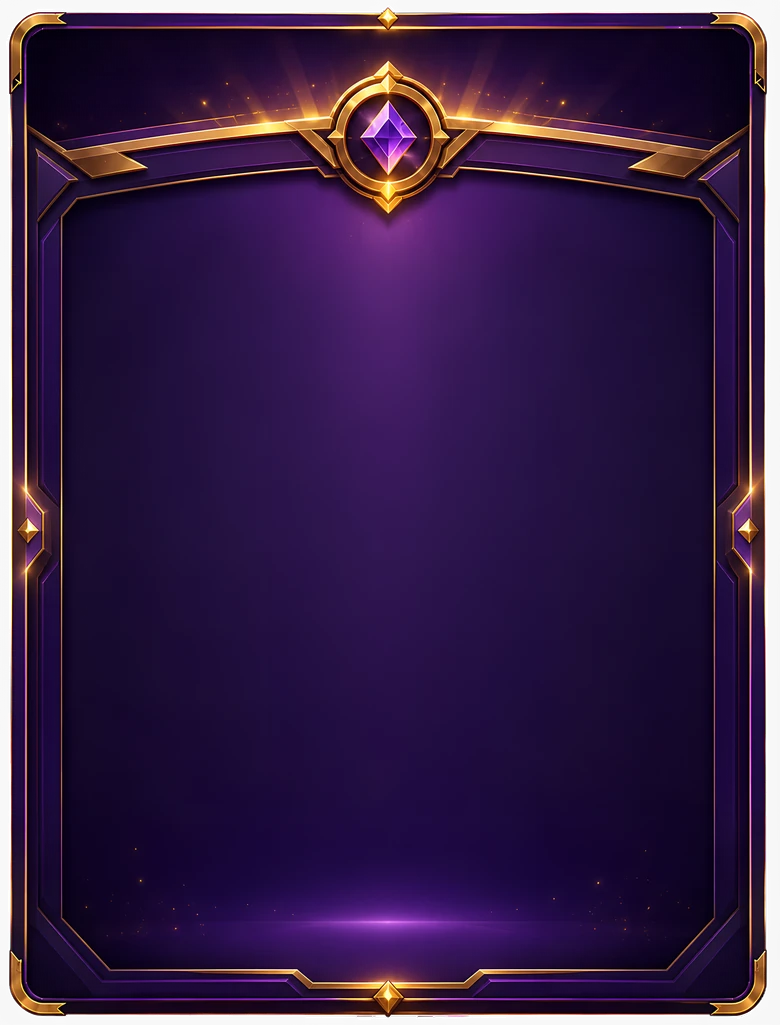
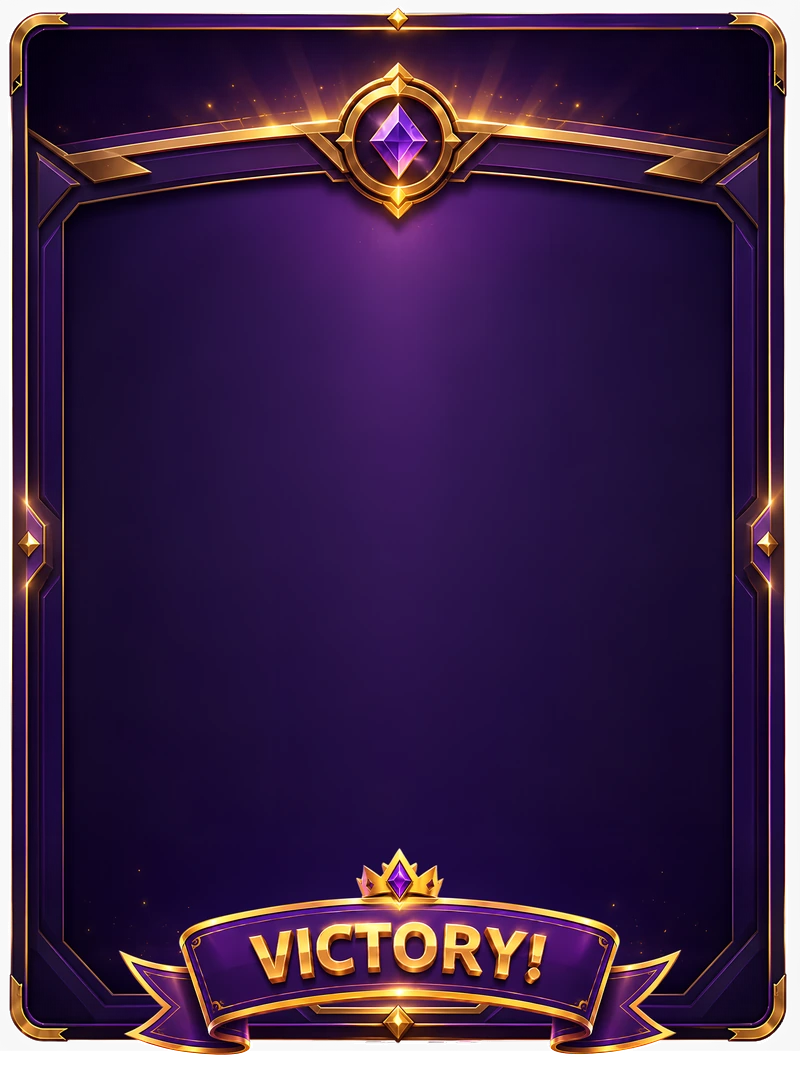
v2.50.0: laadtijd omlaag, nieuwe victory-plaat, tips voorgoed weg
LAADTIJD. Vier echte oorzaken, geen gokwerk:

1. De service worker gooide bij ELKE activatie zijn hele cache weg. We
   deployden vandaag negen keer, dus elke update was een koude her-download van
   alle art (knoppen, emotes, 197 vlaggen, achtergronden, muziek). Art heeft nu
   een eigen cache die releases overleeft; de schil blijft network-first, dus
   het zwarte-scherm-scenario waar die regel voor bestond blijft afgedekt. Art
   die op dezelfde URL wordt overschreven draagt al ?v=, en een andere query is
   een andere cache-regel, dus verse art komt gewoon binnen.

2. Het logo was een PNG van 1024x1024 en 2,1 MB, getoond op 128px. Nu een webp
   van 384px: 28 KB. Dat was in zijn eentje de zwaarste download van de eerste
   laadbeurt. De share cards houden de bron-PNG, die laadt alleen bij delen.

3. De muziek stond op preload=auto: 5 MB die de browser meteen binnentrok
   terwijl de pagina nog bezig was. Nu none, hij streamt als hij speelt. De
   sfx (2,5 MB) decoderen 2,5 s later; tot dan vangt de synth-terugval het op.

4. Alles zat in EEN bundel van 727 KB. React staat nu in een eigen brok en elk
   scherm laadt pas als je er heen gaat. Eerste weergave: 203 KB gzip -> 140,
   en Hub (28 KB gzip) komt pas bij het openen van je profiel.

Verder: de nieuwe victory-plaat met de wimpel INGEBAKKEN onderaan; de losse
band-overlay is weg en de inhoud stopt op 83,5% (gemeten aan de warme pixels),
net boven VICTORY!. De oude wimpelloze plaat blijft als frame-plain.webp voor
[…]

diff --git a/frontend/src/App.tsx b/frontend/src/App.tsx
@@ -1,6 +1,6 @@
 // Pen Neer — top-level flow. Pre-room: intro -> language -> landing/rules.
 // In a room: render the screen for the authoritative phase.
-import { useEffect, useRef, useState } from "react";
+import { useEffect, useRef, useState, lazy, Suspense } from "react";
 import { useGame } from "./net/socket";
 import { vangWerfcode } from "./net/referral";
 import { useT } from "./i18n/i18n";
@@ -9,14 +9,15 @@ import { colors } from "./theme/tokens";
 import { useTileSkin } from "./theme/tileSkin";
 import { Intro } from "./screens/Intro";
 import { LanguagePage } from "./screens/LanguagePage";
-import { Rules } from "./screens/Rules";
-import { Settings } from "./screens/Settings";
+const Rules = lazy(() => import("./screens/Rules").then((m) => ({ default: m.Rules })));
+const Settings = lazy(() => import("./screens/Settings").then((m) => ({ default: m.Settings })));
 import { Landing } from "./screens/Landing";
-import { Hub, type HubSection } from "./screens/Hub";
-import { Shop } from "./screens/Shop";
-import { Training } from "./screens/Training";
-import { Daily } from "./screens/Daily";
-import { Duel } from "./screens/Duel";
+import { type HubSection } from "./screens/Hub";
+const Hub = lazy(() => import("./screens/Hub").then((m) => ({ default: m.Hub })));
+const Shop = lazy(() => import("./screens/Shop").then((m) => ({ default: m.Shop })));
+const Training = lazy(() => import("./screens/Training").then((m) => ({ default: m.Training })));
+const Daily = lazy(() => import("./screens/Daily").then((m) => ({ default: m.Daily })));
+const Duel = lazy(() => import("./screens/Duel").then((m) => ({ default: m.Duel })));
 import { BadgeToasts } from "./components/BadgeToasts";
 import { BottomNav, type NavKey } from "./components/BottomNav";
 import { BuzzerRewardPopup } from "./components/BuzzerRewardPopup";
@@ -25,18 +26,18 @@ import { KoopPopup } from "./components/KoopPopup";
 import { AD_WEG } from "./components/ReferralAd";
 import { MeldingBanner, useMeldingWachtrij } from "./components/Meldingen";
 import { Tour, tourGezien } from "./components/Tour";
-import { Juridisch } from "./screens/Juridisch";
+const Juridisch = lazy(() => import("./screens/Juridisch").then((m) => ({ default: m.Juridisch })));
 import { InviteBanner } from "./components/InviteBanner";
 import { DmBanner } from "./components/DmBanner";
 import { localNotify } from "./components/NotifyNudge";
 import { ensurePushSubscription } from "./pwa/push";
 import type { InboxItem } from "./net/socket";
-import { Lobby } from "./screens/Lobby";
-import { RulesGate } from "./screens/RulesGate";
-import { Reveal } from "./screens/Reveal";
-import { Fill } from "./screens/Fill";
-import { Results } from "./screens/Results";
-import { Final } from "./screens/Final";
+const Lobby = lazy(() => import("./screens/Lobby").then((m) => ({ default: m.Lobby })));
+const RulesGate = lazy(() => import("./screens/RulesGate").then((m) => ({ default: m.RulesGate })));
+const Reveal = lazy(() => import("./screens/Reveal").then((m) => ({ default: m.Reveal })));
+const Fill = lazy(() => import("./screens/Fill").then((m) => ({ default: m.Fill })));
+const Results = lazy(() => import("./screens/Results").then((m) => ({ default: m.Results })));
+const Final = lazy(() => import("./screens/Final").then((m) => ({ default: m.Final })));
 
 // Meteen bij het laden, nog voor de eerste render: `?ref=` uit de adresbalk
 // halen en vasthouden tot er echt een account gemaakt wordt.
@@ -447,7 +448,10 @@ export default function App() {
 
   return (
     <>
-      {screen}
+      {/* De lui geladen schermen komen als los brokje binnen. De terugval is
+          BEWUST leeg: de brokjes zijn klein en de app heeft al een donkere
+          achtergrond, dus een spinner van drie frames flikkert alleen maar. */}
+      <Suspense fallback={null}>{screen}</Suspense>
       {navKey !== null && <BottomNav game={game} active={navKey} onSelect={goNav} />}
       {penSplash && (
         <div

diff --git a/frontend/src/components/VictoryKaart.tsx b/frontend/src/components/VictoryKaart.tsx
@@ -14,10 +14,14 @@ import type { ReactNode } from "react";
 import { colors, font } from "../theme/tokens";
 
 /** Ophogen zodra de art overschreven wordt; de bestandsnaam blijft gelijk. */
-export const VICTORY_ART = 2;
+export const VICTORY_ART = 3;
 
-/** De verhouding van het bestand: 780 op 1025. */
-const VERH = 780 / 1025;
+/** De verhouding van de nieuwe plaat: 3118 op 4194. */
+const VERH = 3118 / 4194;
+// De wimpel zit nu IN de plaat, onderaan, en begint op 83,5% van de hoogte
+// (gemeten aan de warme pixels in de middenkolom). De inhoud moet daar dus
+// boven blijven, anders loopt de laatste regel over VICTORY! heen.
+const WIMPEL_TOP = 0.835;
 
 export function VictoryKaart({
   kop,
@@ -26,8 +30,9 @@ export function VictoryKaart({
   closeLabel,
   breed = 340,
 }: {
-  /** De wimpel bovenaan. Laat weg als het moment geen overwinning is (een
-   *  degradatie hoort niet met VICTORY! aangekondigd te worden). */
+  /** Overwinning of niet. De wimpel VICTORY! is in de plaat gebakken, dus dit
+   *  kiest de PLAAT: met wimpel voor iets wat je wint of krijgt, zonder voor
+   *  een degradatie (die hoort niet met VICTORY! aangekondigd te worden). */
   kop?: boolean;
   children: ReactNode;
   onClose?: () => void;
@@ -41,8 +46,10 @@ export function VictoryKaart({
         position: "relative",
         width: "100%",
         maxWidth: breed,
-        aspectRatio: `${780} / ${1025}`,
-        backgroundImage: `url(/ui/victory-frame.webp?v=${VICTORY_ART})`,
+        // Twee platen, twee verhoudingen: de wimpel maakt de victory-plaat
+        // hoger. Eén vaste verhouding zou de andere uitrekken.
+        aspectRatio: kop ? `${3118} / ${4194}` : `${780} / ${1025}`,
+        backgroundImage: `url(/ui/${kop ? "victory-frame" : "frame-plain"}.webp?v=${VICTORY_ART})`,
         backgroundSize: "100% 100%",
         backgroundRepeat: "no-repeat",
         // Een echte schaduw ONDER de vorm kan geen drop-shadow zijn: iOS rastert
@@ -50,34 +57,6 @@ export function VictoryKaart({
         filter: "drop-shadow(0 18px 44px rgba(0,0,0,.6))",
       }}
     >
-      {/* De wimpel hangt OVER de bovenrand heen, want zo hoort een wimpel: hij
-          is ergens aan opgehangen en ligt niet in het vlak. */}
-      {kop && (
-        // Het CENTREREN zit op de wikkel en de ANIMATIE op de afbeelding, en dat
-        // moet zo. `reward-art` animeert `transform`, dus een `translateX(-50%)`
-        // op hetzelfde element wordt door de animatie overschreven: de wimpel
-        // schoot dan een halve breedte naar rechts en liep het scherm uit.
-        <span
-          aria-hidden
-          style={{
-            position: "absolute",
-            left: 0,
-            right: 0,
-            top: "-12%",
-            display: "flex",
-            justifyContent: "center",
-            pointerEvents: "none",
-          }}
-        >
-          <img
-            src={`/ui/victory-band.webp?v=${VICTORY_ART}`}
-            alt=""
-            className="reward-art"
-            style={{ width: "90%", maxWidth: "none", display: "block" }}
-          />
-        </span>
-      )}
-
       {onClose && (
         <button
           onClick={onClose}
@@ -102,13 +81,14 @@ export function VictoryKaart({
         </button>
       )}
 
-      {/* De inhoud, binnen het gemeten binnenveld. Onder de wimpel begint hij
-          lager, anders staat de eerste regel eronder verstopt. */}
+      {/* De inhoud, binnen het gemeten binnenveld. De wimpel zit onderaan IN de
+          plaat, dus de inhoud stopt daar netjes boven; zonder wimpel mag hij
+          door tot vlak boven de onderrand. */}
       <div
         style={{
           position: "absolute",
-          top: kop ? "17%" : "8%",
-          bottom: "7%",
+          top: "8%",
+          bottom: kop ? `${Math.round((1 - WIMPEL_TOP) * 100) + 2}%` : "7%",
           left: "10%",
           right: "10%",
           display: "flex",

diff --git a/frontend/public/sw.js b/frontend/public/sw.js
@@ -10,7 +10,16 @@
 //    briefly-stale shell can still boot from cache instead of going black.
 //  - Every activation purges ALL old caches (drops any poisoned shell).
 // Never touches the WebSocket or the API.
-const CACHE = "penneer-v84"; // v84: schildring op ELKE pagina
+const CACHE = "penneer-v85"; // v85: art-cache overleeft releases
+// De art in zijn EIGEN cache die releases overleeft. We deployden vandaag negen
+// keer, en elke activatie gooide alles weg: elke update was daardoor een koude
+// her-download van ~15MB aan knoppen, emotes, vlaggen en achtergronden. Dat is
+// waarom de app "zwaar" aanvoelde. Art die op dezelfde URL wordt overschreven
+// draagt al een ?v=-parameter, en een andere query is een andere cache-regel,
+// dus verse art komt gewoon binnen zonder de rest te lozen.
+const ART = "penneer-art-v1";
+const ART_PADEN = ["/ui/", "/buzzers/", "/emotes/", "/tiles/", "/vlaggen/", "/frames/", "/emblems/", "/music/", "/sfx/", "/reels/", "/shield/"];
+const artCache = (pad) => ART_PADEN.some((p) => pad.startsWith(p));
 
 self.addEventListener("install", () => {
   self.skipWaiting();
@@ -19,18 +28,19 @@ self.addEventListener("install", () => {
 self.addEventListener("activate", (e) => {
   e.waitUntil(
     (async () => {
-      // Drop everything, including any poisoned index.html an older SW cached.
+      // Alles weg BEHALVE de art-cache: de schil (index + gehashte assets) moet
+      // vers, maar de art is met ?v= geadresseerd en blijft geldig.
       const keys = await caches.keys();
-      await Promise.all(keys.map((k) => caches.delete(k)));
+      await Promise.all(keys.filter((k) => k !== ART).map((k) => caches.delete(k)));
       await self.clients.claim();
     })()
   );
 });
 
-const cachePut = (req, res) => {
+const cachePut = (req, res, naam = CACHE) => {
   if (res && res.ok) {
     const copy = res.clone();
-    caches.open(CACHE).then((c) => c.put(req, copy)).catch(() => {});
+    caches.open(naam).then((c) => c.put(req, copy)).catch(() => {});
   }
   return res;
 };
@@ -61,9 +71,11 @@ self.addEventListener("fetch", (e) => {
   }
 
   // Hashed assets are content-addressed and immutable: cache-first, then fill
-  // from network. This is what stops a stale shell from ever going black.
+  // from network. This is what stops a stale shell from ever going black. Art
+  // gaat naar zijn eigen lang-levende cache, de rest naar de versie-cache.
+  const naam = artCache(url.pathname) ? ART : CACHE;
   e.respondWith(
-    caches.match(req).then((hit) => hit || fetch(req).then((res) => cachePut(req, res)))
+    caches.match(req).then((hit) => hit || fetch(req).then((res) => cachePut(req, res, naam)))
   );
 });
 

diff --git a/frontend/src/screens/Hub.tsx b/frontend/src/screens/Hub.tsx
@@ -2092,7 +2092,7 @@ function ClubScreen({ game, onBack, embedded }: { game: GameApi; onBack?: () => 
     try {
       const blob = await makeClubCard({
         name: club.name,
-        emblemSrc: club.emblem ? `/emblems/${club.emblem}.webp` : "/logo.png",
+        emblemSrc: club.emblem ? `/emblems/${club.emblem}.webp` : "/logo-klein.webp",
         code: club.code,
         membersText: (club.member_count === 1 ? t("clubMembersOne") : t("clubMembersN", { n: club.member_count })),
         periodText: period === "month" ? t("seasonChip") : t("allTime"),
@@ -2806,15 +2806,17 @@ function Vlag({ code }: { code?: string | null }) {
   const c = (code || "").toUpperCase();
   if (!c || er) return null;
   return (
-    <div style={{ display: "flex", marginTop: 6 }}>
-      <HexArt maat={19}>
-        <img
-          src={`/vlaggen/${c}.webp`}
-          alt=""
-          onError={() => setEr(true)}
-          style={{ width: "100%", height: "100%", objectFit: "cover", display: "block" }}
-        />
-      </HexArt>
+    // Geen zeshoek: de vlag is zelf al een vorm. Hij staat ONDER de
+    // kroontjes-zeshoek van de titelpil, op dezelfde verticale lijn: de pil
+    // heeft links 4px lucht en de zeshoek is 19 breed, dus met deze marge valt
+    // het hart van de vlag op het hart van de zeshoek erboven.
+    <div style={{ display: "flex", marginTop: 6, marginLeft: 4 }}>
+      <img
+        src={`/vlaggen/${c}.webp`}
+        alt=""
+        onError={() => setEr(true)}
+        style={{ width: 22, height: 17, objectFit: "contain", display: "block" }}
+      />
     </div>
   );
 }

diff --git a/frontend/src/sound/sound.ts b/frontend/src/sound/sound.ts
@@ -90,7 +90,10 @@ function ensureCtx(): AudioContext | null {
     sfxGain.gain.value = sfxMuted ? 0 : sfxVol;
     sfxGain.connect(ctx.destination);
     startKeepAlive();
-    void decodeAll();
+    // De sfx (2,5MB samen) hoeven de eerste seconden niet voor de voeten te
+    // lopen: decodeer ze pas als de boel op adem is. Tot die tijd vangt de
+    // synth-terugval elk geluid op.
+    setTimeout(() => { void decodeAll(); }, 2500);
     // Re-resume whenever the page comes back to the foreground (iOS suspends).
     document.addEventListener("visibilitychange", () => {
       if (!document.hidden && ctx && ctx.state === "suspended") ctx.resume().catch(() => {});
@@ -226,7 +229,9 @@ function ensureMusicEl(): HTMLAudioElement | null {
   if (!musicEl) {
     musicEl = new Audio("/music/daftneo.mp3");
     musicEl.loop = true;
-    musicEl.preload = "auto";
+    // "none": de 5MB-track streamt zodra hij ECHT speelt, in plaats van dat de
+    // browser hem meteen volledig binnentrekt terwijl de pagina nog laadt.
+    musicEl.preload = "none";
   }
   musicEl.volume = musicMuted ? 0 : musicVol;
   // Belt and braces: a muted channel also mutes the ELEMENT, so even a stray

diff --git a/frontend/src/components/SchermTip.tsx b/frontend/src/components/SchermTip.tsx
@@ -11,14 +11,23 @@ import { sound } from "../sound/sound";
 import { colors, font, withAlpha } from "../theme/tokens";
 
 const SLEUTEL = (id: string) => `penneer.tip.${id}`;
+// Eén kruisje = KLAAR met tips, overal, ook na een herstart. Zeven schermen
+// met elk hun eigen tip voelen anders als dezelfde popup die blijft
+// terugkomen, dus wie er een wegklikt wil ze niet per scherm blijven wegwerken.
+const ALLES_WEG = "penneer.tips.weg";
 
 export function SchermTip({ id, tekst }: { id: string; tekst: string }) {
   const [weg, setWeg] = useState(() => {
-    try { return localStorage.getItem(SLEUTEL(id)) === "1"; } catch { return true; }
+    try {
+      return localStorage.getItem(ALLES_WEG) === "1" || localStorage.getItem(SLEUTEL(id)) === "1";
+    } catch { return true; }
   });
   if (weg) return null;
   const sluit = () => {
-    try { localStorage.setItem(SLEUTEL(id), "1"); } catch { /* prima */ }
+    try {
+      localStorage.setItem(SLEUTEL(id), "1");
+      localStorage.setItem(ALLES_WEG, "1");
+    } catch { /* prima */ }
     setWeg(true);
   };
   return (

diff --git a/frontend/vite.config.ts b/frontend/vite.config.ts
@@ -4,6 +4,20 @@ import react from "@vitejs/plugin-react";
 // In dev, proxy the WebSocket + HTTP API (avatars) to FastAPI on :8000.
 export default defineConfig({
   plugins: [react()],
+  build: {
+    rollupOptions: {
+      output: {
+        // React en de iconen in hun eigen brok: die veranderen vrijwel nooit,
+        // dus na een release hoeft de telefoon alleen de app-code opnieuw te
+        // halen in plaats van alles in één bundel van 750KB.
+        manualChunks(id: string) {
+          if (!id.includes("node_modules")) return;
+          if (id.includes("lucide-react")) return "icons";
+          return "vendor";
+        },
+      },
+    },
+  },
   server: {
     port: 5400,
     proxy: {

diff --git a/frontend/src/components/Logo.tsx b/frontend/src/components/Logo.tsx
@@ -12,7 +12,10 @@ export function Logo({ size = 120, glow = true }: { size?: number | string; glow
     "radial-gradient(circle at 50% 50%, #000 44%, rgba(0,0,0,.85) 56%, rgba(0,0,0,.45) 68%, rgba(0,0,0,.15) 80%, transparent 94%)";
   return (
     <img
-      src="/logo.png"
+      // De kleine webp (384px, ~40KB) en niet de bron-PNG van 2MB: dit logo staat
+      // op 128px op het beginscherm en was in zijn eentje de zwaarste download
+      // van de hele eerste laadbeurt.
+      src="/logo-klein.webp"
       alt="Pen Neer"
       width={typeof size === "number" ? size : undefined}
       height={typeof size === "number" ? size : undefined}

diff --git a/frontend/src/version.ts b/frontend/src/version.ts
@@ -1,2 +1,2 @@
 // Bump per user-facing release. Shown in Settings > About.
-export const APP_VERSION = "2.49.1";
+export const APP_VERSION = "2.50.0";
